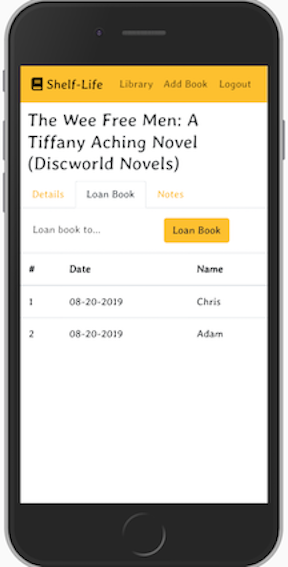
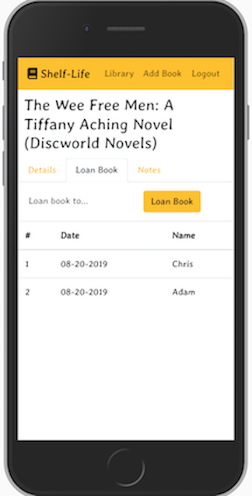
nav changes, readme adjustments

diff --git a/client/src/Nav.tsx b/client/src/Nav.tsx
@@ -1,37 +1,22 @@
 import React from 'react';
 import { Link } from 'react-router-dom';
 
-import Navbar from 'react-bootstrap/Navbar';
 import Nav from 'react-bootstrap/Nav';
 
 import { INav } from './interfaces';
 
-const Navigation: React.FC<INav> = ({logout, libraryId}) => {
-  var links;
-  if (!libraryId) {
-    links =
-    <Nav>
-      <Link to='/signup' className='nav-link' >Sign Up</Link>
-      <Link to='/login' className='nav-link' >Login</Link>
-    </Nav>
-  } else {
-    links =
-    <>
-      <Nav>
-        <Link to='/library' className="nav-link" >Library</Link>
-        <Link to='/library/add' className="nav-link">Add Book</Link>
-      </Nav>
-      <Nav>
-        <Link to='/' className="nav-link" onClick={(e) => logout(e)}>Logout</Link>
-      </Nav>
-    </>
-  }
-  
+const Navigation: React.FC<INav> = ({logout}) => {
   return(
-    <Navbar sticky="top" bg="warning" className="justify-content-between">
-      <Navbar.Brand><i className="fas fa-book" />  Shelf-Life</Navbar.Brand>
-      {links}
-    </Navbar>
+    <nav className="justify-content-between navbar navbar-expand navbar-light sticky-top bg-warning ">
+      <span className='navbar-brand' ><i className="fas fa-book" />  Shelf-Life</span>
+      <Nav>
+        <Link to='/library' className="nav-link topnav" >Library</Link>
+        <Link to='/library/add' className="nav-link topnav">Add Book</Link>
+      </Nav>
+      <Nav>
+        <Link to='/' className="nav-link topnav" onClick={(e) => logout(e)}>Logout</Link>
+      </Nav>
+    </nav>
   )
 }
 

diff --git a/client/src/App.tsx b/client/src/App.tsx
@@ -2,14 +2,17 @@ import React, { useState, useEffect } from 'react';
 import axios from 'axios';
 import {
   BrowserRouter as Router,
-  Route
+  Route,
+  Link
 } from 'react-router-dom';
+
+import Nav from 'react-bootstrap/Nav'
 
 // components
 import Login from './Login';
 import Signup from './Signup';
 import Profile from './Profile';
-import Nav from './Nav';
+import Navigation from './Nav';
 import './App.css';
 
 // interfaces
@@ -57,12 +60,20 @@ const App: React.FC = () => {
   if (Object.keys(user).length > 0) {
     contents = (
       <>
+        <Navigation logout={logout} />
         <Route path='/' render={() => <Profile libraryId={user.library} />} />
       </>
     )
   } else {
     contents = (
       <>
+        <nav className="justify-content-between navbar navbar-expand navbar-light sticky-top bg-warning ">
+          <span className='navbar-brand'><i className="fas fa-book" />  Shelf-Life</span>
+          <Nav>
+            <Link to='/signup' className='nav-link' >Sign Up</Link>
+            <Link to='/login' className='nav-link' >Login</Link>
+          </Nav>
+        </nav>
         <Route path='/login' render={(props) => <Login setToken={setToken} {...props} /> } />
         <Route path='/signup' render={(props) => <Signup setToken={setToken} {...props} /> } />        
       </>
@@ -72,7 +83,6 @@ const App: React.FC = () => {
   return (
     <Router >
       <div className='app' >
-        <Nav logout={logout} libraryId={user.library} />
         {contents}
       </div>
     </Router>

diff --git a/src/server.ts b/src/server.ts
@@ -3,7 +3,6 @@ dotenv.config();
 
 import express from 'express';
 import mongoose from 'mongoose';
-import expressJWT from 'express-jwt';
 import helmet from 'helmet';
 
 const app = express();

diff --git a/client/src/App.css b/client/src/App.css
@@ -26,6 +26,10 @@ input:focus {
   color: rgb(184, 139, 6)
 }
 
+.topnav {
+  color: rgba(0, 0, 0, 0.7)
+}
+
 .signup {
   text-align: center;
   padding: 20px;

diff --git a/client/src/interfaces.tsx b/client/src/interfaces.tsx
@@ -43,7 +43,6 @@ export interface IIdProps {
 
 export interface INav {
   logout: Function;
-  libraryId: string;
 }
 
 export interface SingleNote {

diff --git a/README.md b/README.md
@@ -46,7 +46,11 @@ I used a Trello board to manage tasks. Check it out [here](https://trello.com/b/
 
 ## Thoughts
 
-- Typescript was a challenge, particularly when integrating it into React with Hooks, to which I really only had a cursory introduction.  All the planning I did at the beginning helped a lot, though I don't have everything implemented to the degree I'd like. This project leaves a lot of room for growth and added features, and I look forward to seeing what I can include going forward.
+- Typescript was a challenge, particularly when integrating it into React with Hooks, to which I really only had a cursory introduction.  All the planning I did at the beginning helped a lot. In particular, I'm glad I sought help from a program manager on how to appropriately figure out specs.
+
+- I rewrote a template that I already had in javascript into typescript. It was great for both a deeper understanding of the jwt authorization and setting me up to feel more comfortable writing the rest of the app in typescript.
+
+- I started with the backend /api routes for GET and POST for libraries and books so I had something to start with, leaving space for the additional models to be added in later as the other got solidified. Coupled with the Trello board, I think that helped keep things under control. I didn't over extend and write more than I think I needed. It also meant that I didn't move on until things worked, so it limited where possible errors were coing from.
 
 ## Future Additions!
 - [ ] A barcode reader! While not all books have their ISBN in the barcode, most books since 2001 do, so searching by taking a picture of the barcode and using the data to query the api would be amazing.
